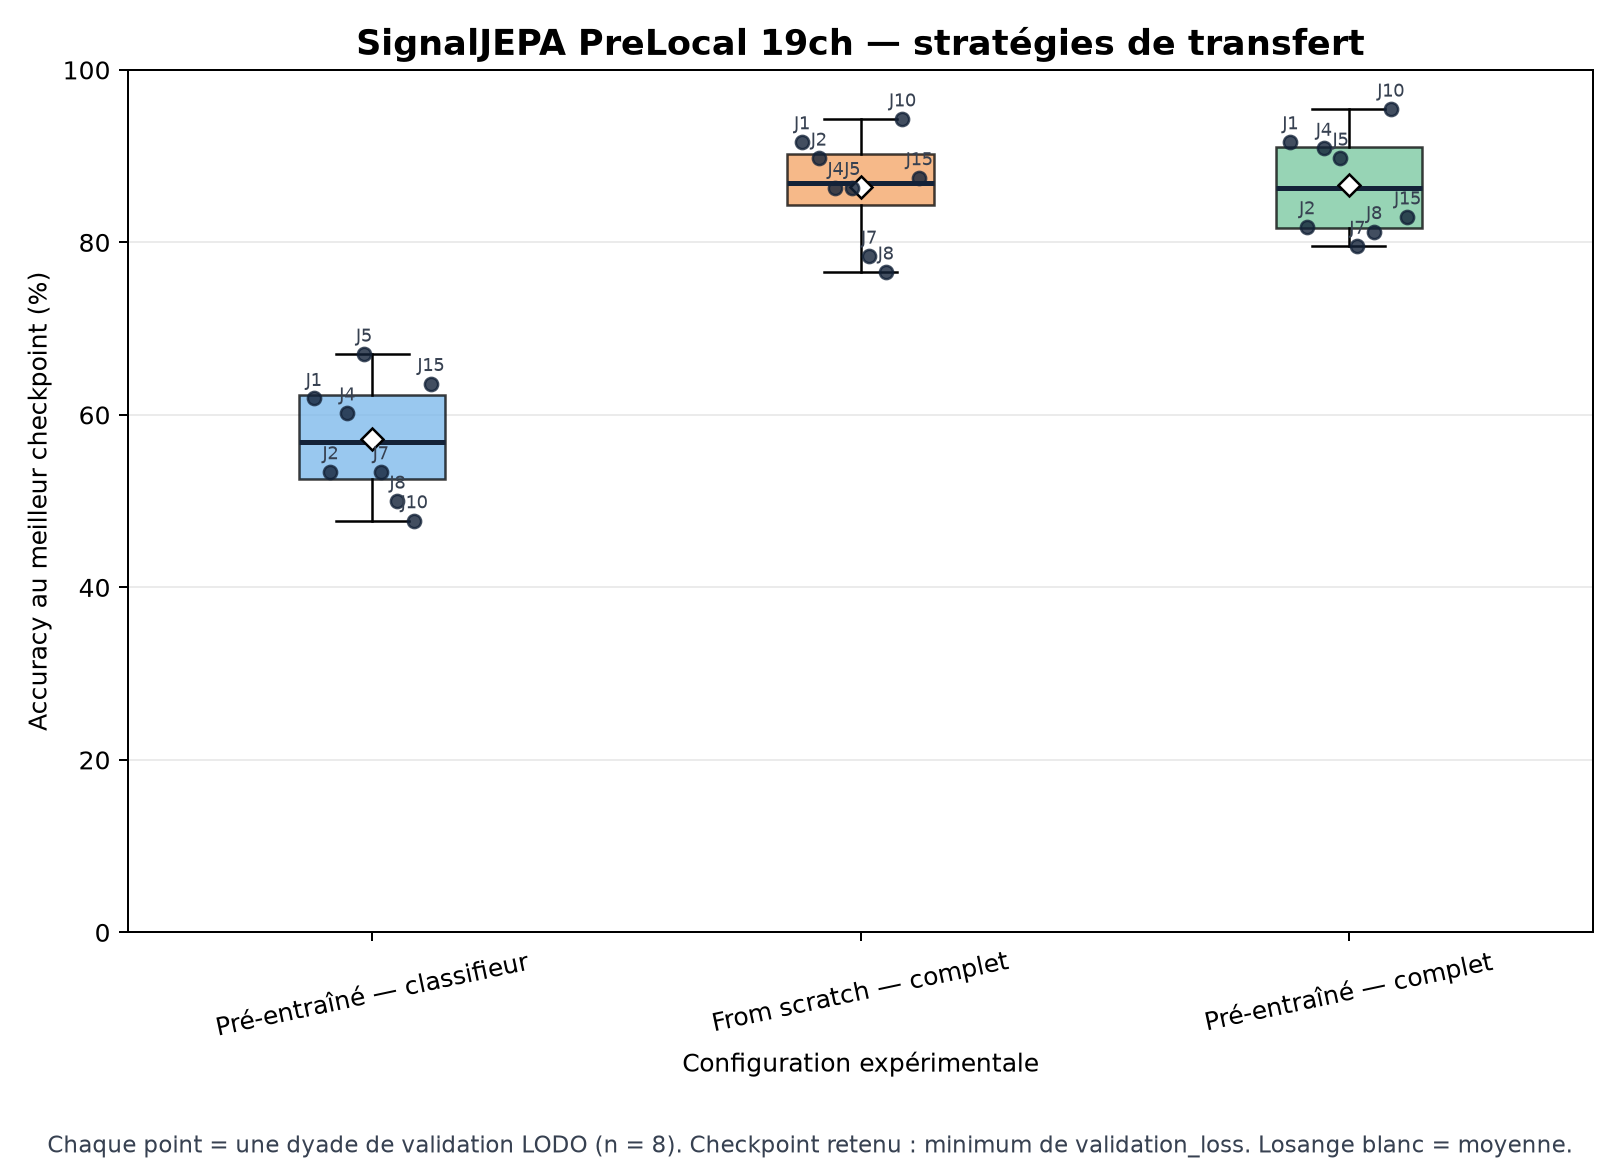
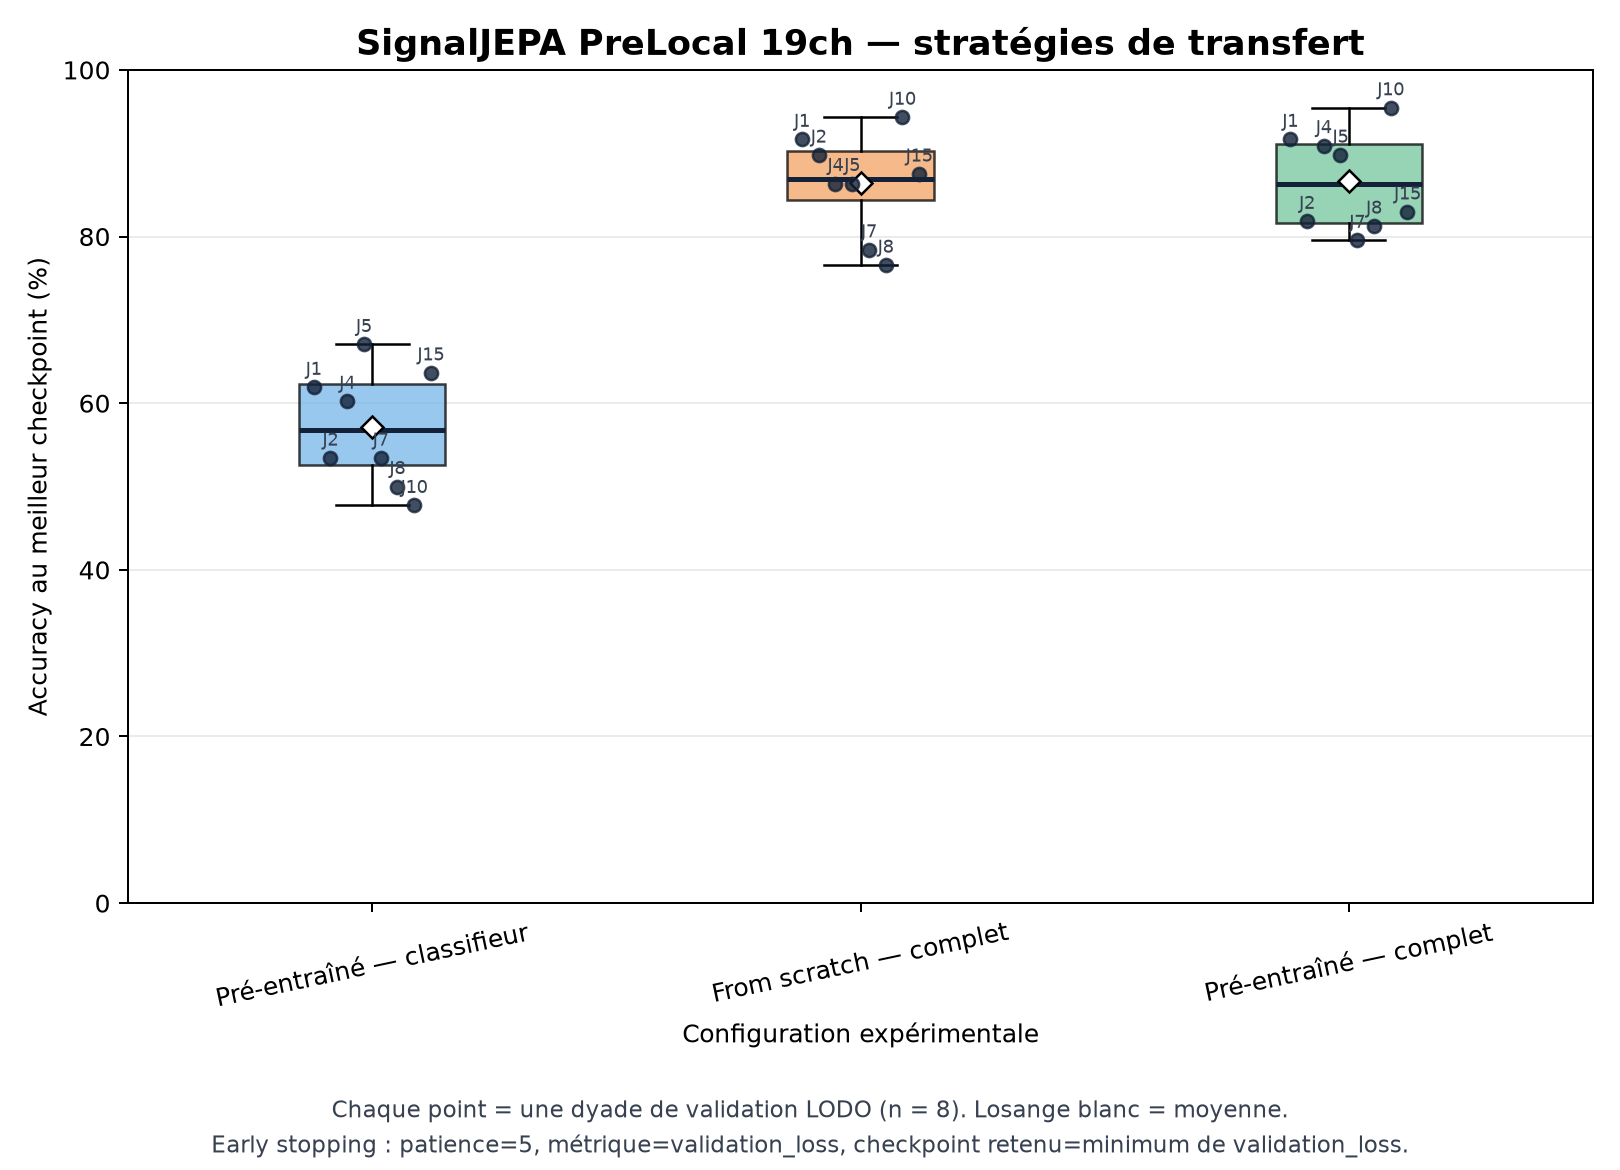
jepa set

diff --git a/src/evaluation/visualizations/generate_boxplots.py b/src/evaluation/visualizations/generate_boxplots.py
@@ -14,9 +14,11 @@ import numpy as np
 import pandas as pd
 
 from src.evaluation.result_io import load_summary
+from src.evaluation.visualizations.generate_fold_grids import read_patience
 from src.config.settings import (
     CHECKPOINT_SELECTION,
     COMPARISON_GROUPS,
+    EARLY_STOPPING_MONITOR,
     EXPECTED_DYADS,
     REPORT_OUTPUT_ROOT,
     ExperimentSpec,
@@ -130,19 +132,47 @@ def save_group_boxplot(
     axis.grid(axis="y", alpha=0.25)
     axis.tick_params(axis="x", rotation=12)
 
+    # Patience potentiellement différente d'une configuration à l'autre au
+    # sein d'un même groupe : affichée en une seule valeur si elle est
+    # partagée, sinon détaillée par configuration plutôt que de choisir une
+    # valeur arbitrairement.
+    patience_by_experiment = {
+        experiment.label: read_patience(experiment)
+        for experiment in experiments
+    }
+    unique_patiences = set(patience_by_experiment.values())
+    if len(unique_patiences) == 1:
+        patience_text = f"patience={unique_patiences.pop()}"
+    else:
+        patience_text = "patience=" + ", ".join(
+            f"{label}:{value}"
+            for label, value in patience_by_experiment.items()
+        )
+
     figure.text(
         0.5,
-        0.015,
+        0.045,
         (
             "Chaque point = une dyade de validation LODO (n = 8). "
-            f"Checkpoint retenu : {CHECKPOINT_SELECTION}. "
             "Losange blanc = moyenne."
         ),
         ha="center",
         fontsize=9,
         color="#374151",
     )
-    figure.tight_layout(rect=[0, 0.055, 1, 1])
+    figure.text(
+        0.5,
+        0.015,
+        (
+            f"Early stopping : {patience_text}, "
+            f"métrique={EARLY_STOPPING_MONITOR}, "
+            f"checkpoint retenu={CHECKPOINT_SELECTION}."
+        ),
+        ha="center",
+        fontsize=9,
+        color="#374151",
+    )
+    figure.tight_layout(rect=[0, 0.08, 1, 1])
 
     output_directory.mkdir(parents=True, exist_ok=True)
     output_path = output_directory / f"boxplot_{group_name}.png"

diff --git a/src/dataset/prepare_signal_jepa_prelocal.py b/src/dataset/prepare_signal_jepa_prelocal.py
@@ -19,9 +19,15 @@ transformations appliquées.
 
 Avant le premier lancement
 --------------------------
-Vérifier avec la documentation d'acquisition si les données ont déjà été
-filtrées entre 0,5 et 40 Hz. Ensuite, régler ``APPLY_BANDPASS`` ci-dessous.
-Il ne faut pas activer un second filtrage sans justification scientifique.
+Confirmé auprès du collègue en charge du traitement du signal (2026-08-21) :
+un filtre passe-bande **[0,5 ; 48] Hz** est appliqué à l'acquisition. Le
+checkpoint SignalJEPA attend 0,5-40 Hz — l'écart se limite à une tranche
+40-48 Hz non filtrée par l'acquisition. ``APPLY_BANDPASS = False`` ci-dessous
+n'a donc PAS été mis à jour depuis cette confirmation : les résultats 19ch
+déjà validés (~86-92 % d'accuracy LODO) ont été produits sans ce correctif
+et n'ont donc pas exactement la distribution du pré-entraînement. Passer à
+True et régénérer ce dataset donnerait une correspondance plus stricte —
+à décider selon si ce léger écart mérite de relancer l'expérience.
 """
 
 import csv
@@ -45,7 +51,10 @@ TARGET_DATASET_NAME = "data_signal_jepa_prelocal_19ch_128hz_2s_uv"
 # False : les données source sont déjà filtrées de manière compatible.
 # True  : le script ajoute un filtre 0,5-40 Hz avant le rééchantillonnage.
 #
-# Conserver False tant que le prétraitement d'acquisition n'est pas confirmé.
+# Acquisition confirmée à [0,5 ; 48] Hz (voir docstring du module) : reste à
+# False pour préserver les résultats déjà validés sur ce dataset tels quels.
+# Passer à True avant une régénération si on veut corriger la tranche
+# 40-48 Hz restante.
 APPLY_BANDPASS = False
 
 # La protection évite d'écraser silencieusement un dataset déjà produit.

diff --git a/src/dataset/prepare_signal_jepa.py b/src/dataset/prepare_signal_jepa.py
@@ -47,12 +47,13 @@ TARGET_DATASET_NAME = "data_signal_jepa_128hz_uv"
 # False : les données source sont déjà filtrées de manière compatible.
 # True  : le script ajoute un filtre 0,5-40 Hz avant le rééchantillonnage.
 #
-# Réglé à True suite à diagnose_bandpass_filtering.py : pas de pic secteur à
-# 50 Hz, mais une coupure nette visible sur la PSD vers 45-65 Hz dont la
-# fréquence exacte n'est pas confirmée, et 12,7 % de puissance sous 0,5 Hz.
-# Filtrer un signal déjà filtré dans la même bande ne change rien
-# d'important ; ne pas filtrer un signal qui ne l'est pas fausse le
-# transfert depuis le checkpoint SignalJEPA (pré-entraîné sur 0,5-40 Hz).
+# Confirmé auprès du collègue en charge du traitement du signal (2026-08-21) :
+# l'acquisition applique déjà un passe-bande [0,5 ; 48] Hz — exactement
+# cohérent avec la coupure nette observée sur la PSD (diagnose_bandpass_
+# filtering.py) juste après 48 Hz. Le checkpoint SignalJEPA attend 0,5-40 Hz :
+# il reste donc une tranche 40-48 Hz que l'acquisition ne filtre pas. Ce
+# second filtre plus étroit la retire, sans risque puisqu'il s'applique à un
+# signal déjà filtré dans une bande plus large.
 APPLY_BANDPASS = True
 
 # Les 338 fichiers existants viennent de la tentative précédente, produite

diff --git a/src/dataset/prepare_signal_jepa_prelocal_32ch.py b/src/dataset/prepare_signal_jepa_prelocal_32ch.py
@@ -25,12 +25,11 @@ apprend sur ces données (accuracy dès la première epoch en scratch).
 
 Avant le premier lancement
 --------------------------
-Lancer d'abord ``python -m src.dataset.diagnose_bandpass_filtering`` si ce
-n'est pas déjà fait. ``APPLY_BANDPASS`` reprend ici la même conclusion que
-``prepare_signal_jepa.py`` (32 canaux, non fenêtré) : pas de pic secteur à
-50 Hz, mais une coupure nette vers 45-65 Hz de fréquence non confirmée et
-12,7 % de puissance sous 0,5 Hz — filtrer par prudence plutôt que ne pas
-filtrer un signal qui ne l'est pas.
+Confirmé auprès du collègue en charge du traitement du signal (2026-08-21) :
+l'acquisition applique déjà un passe-bande [0,5 ; 48] Hz. Le checkpoint
+SignalJEPA attend 0,5-40 Hz : ``APPLY_BANDPASS`` reste à True pour retirer la
+tranche 40-48 Hz restante — voir la docstring de ``prepare_signal_jepa.py``
+pour le détail.
 """
 
 import csv
